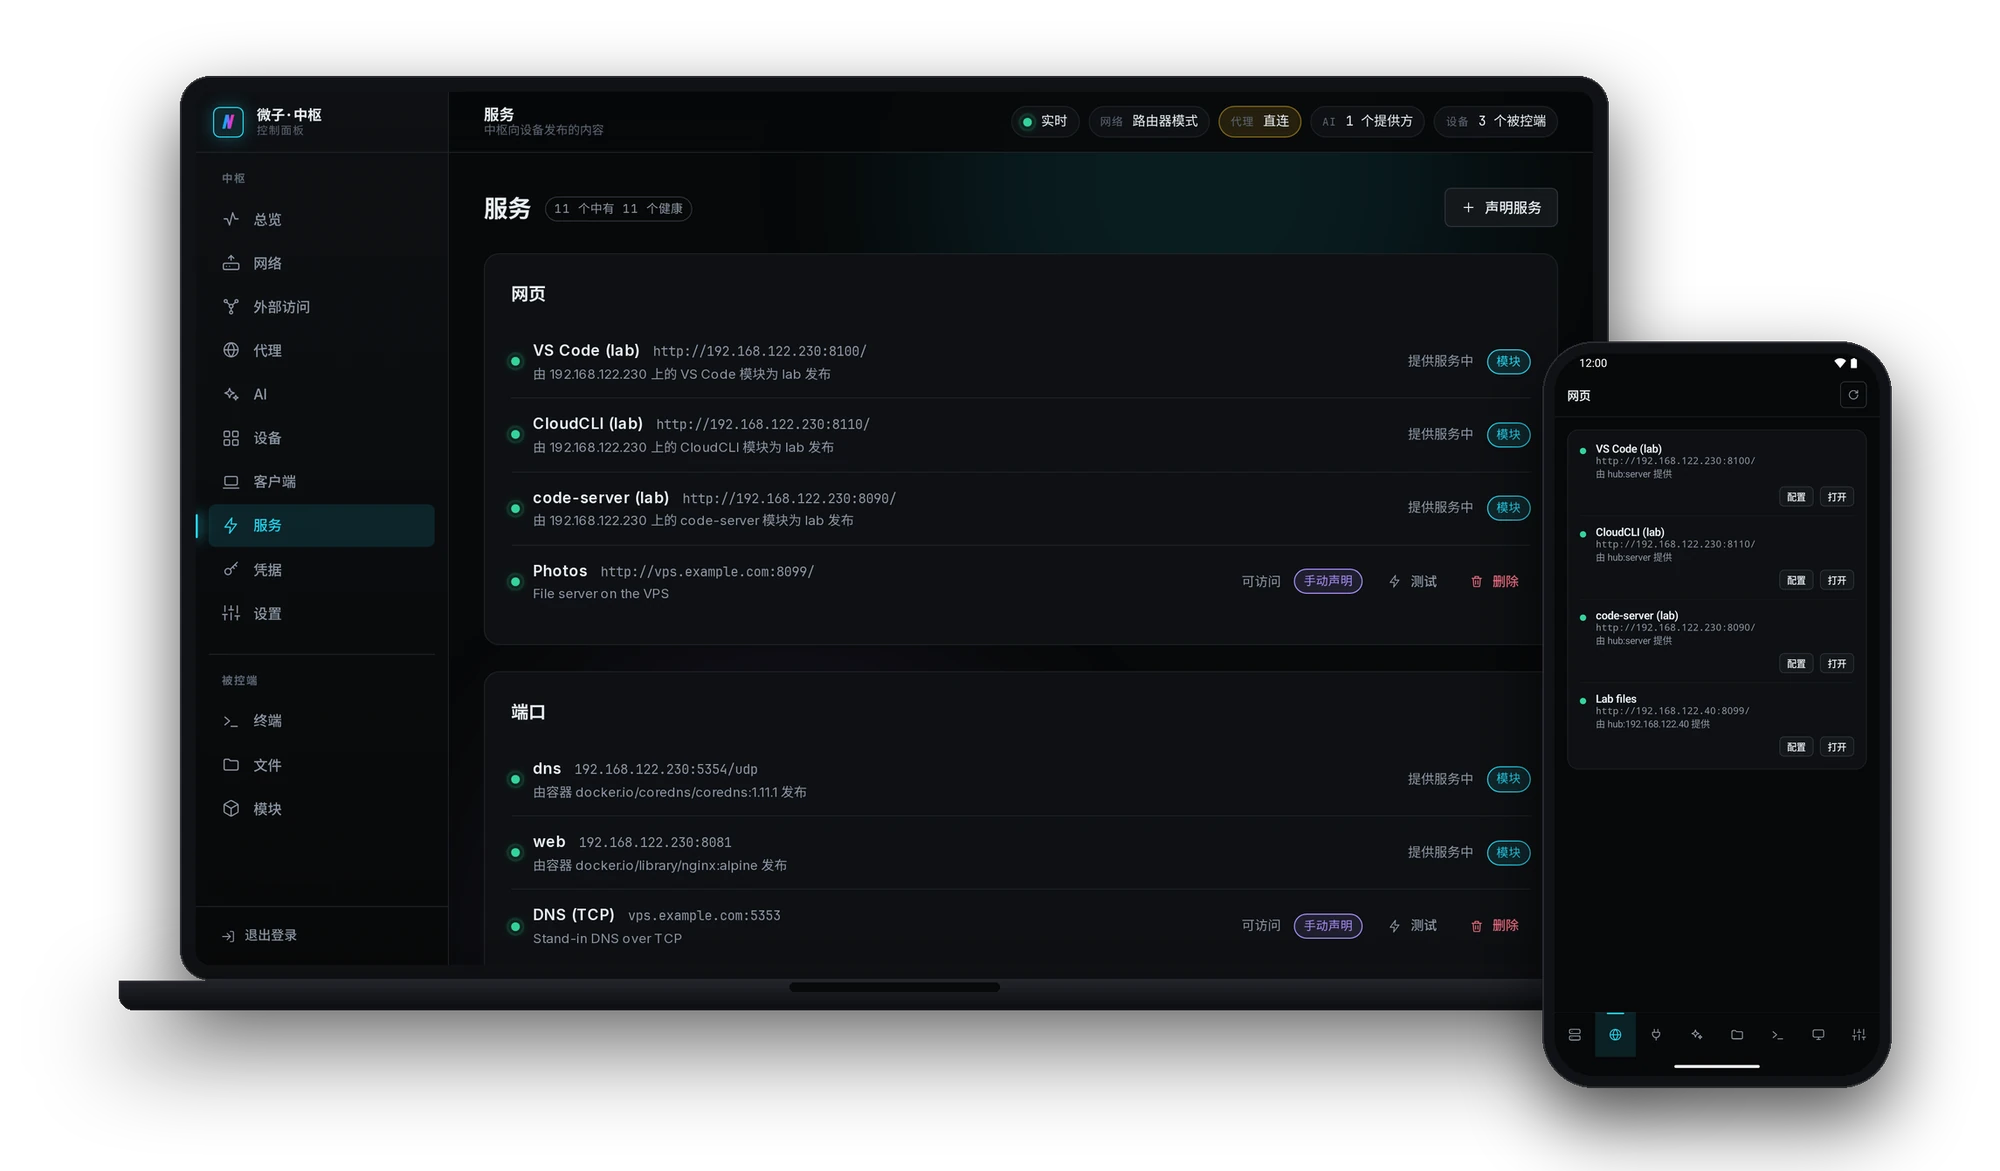
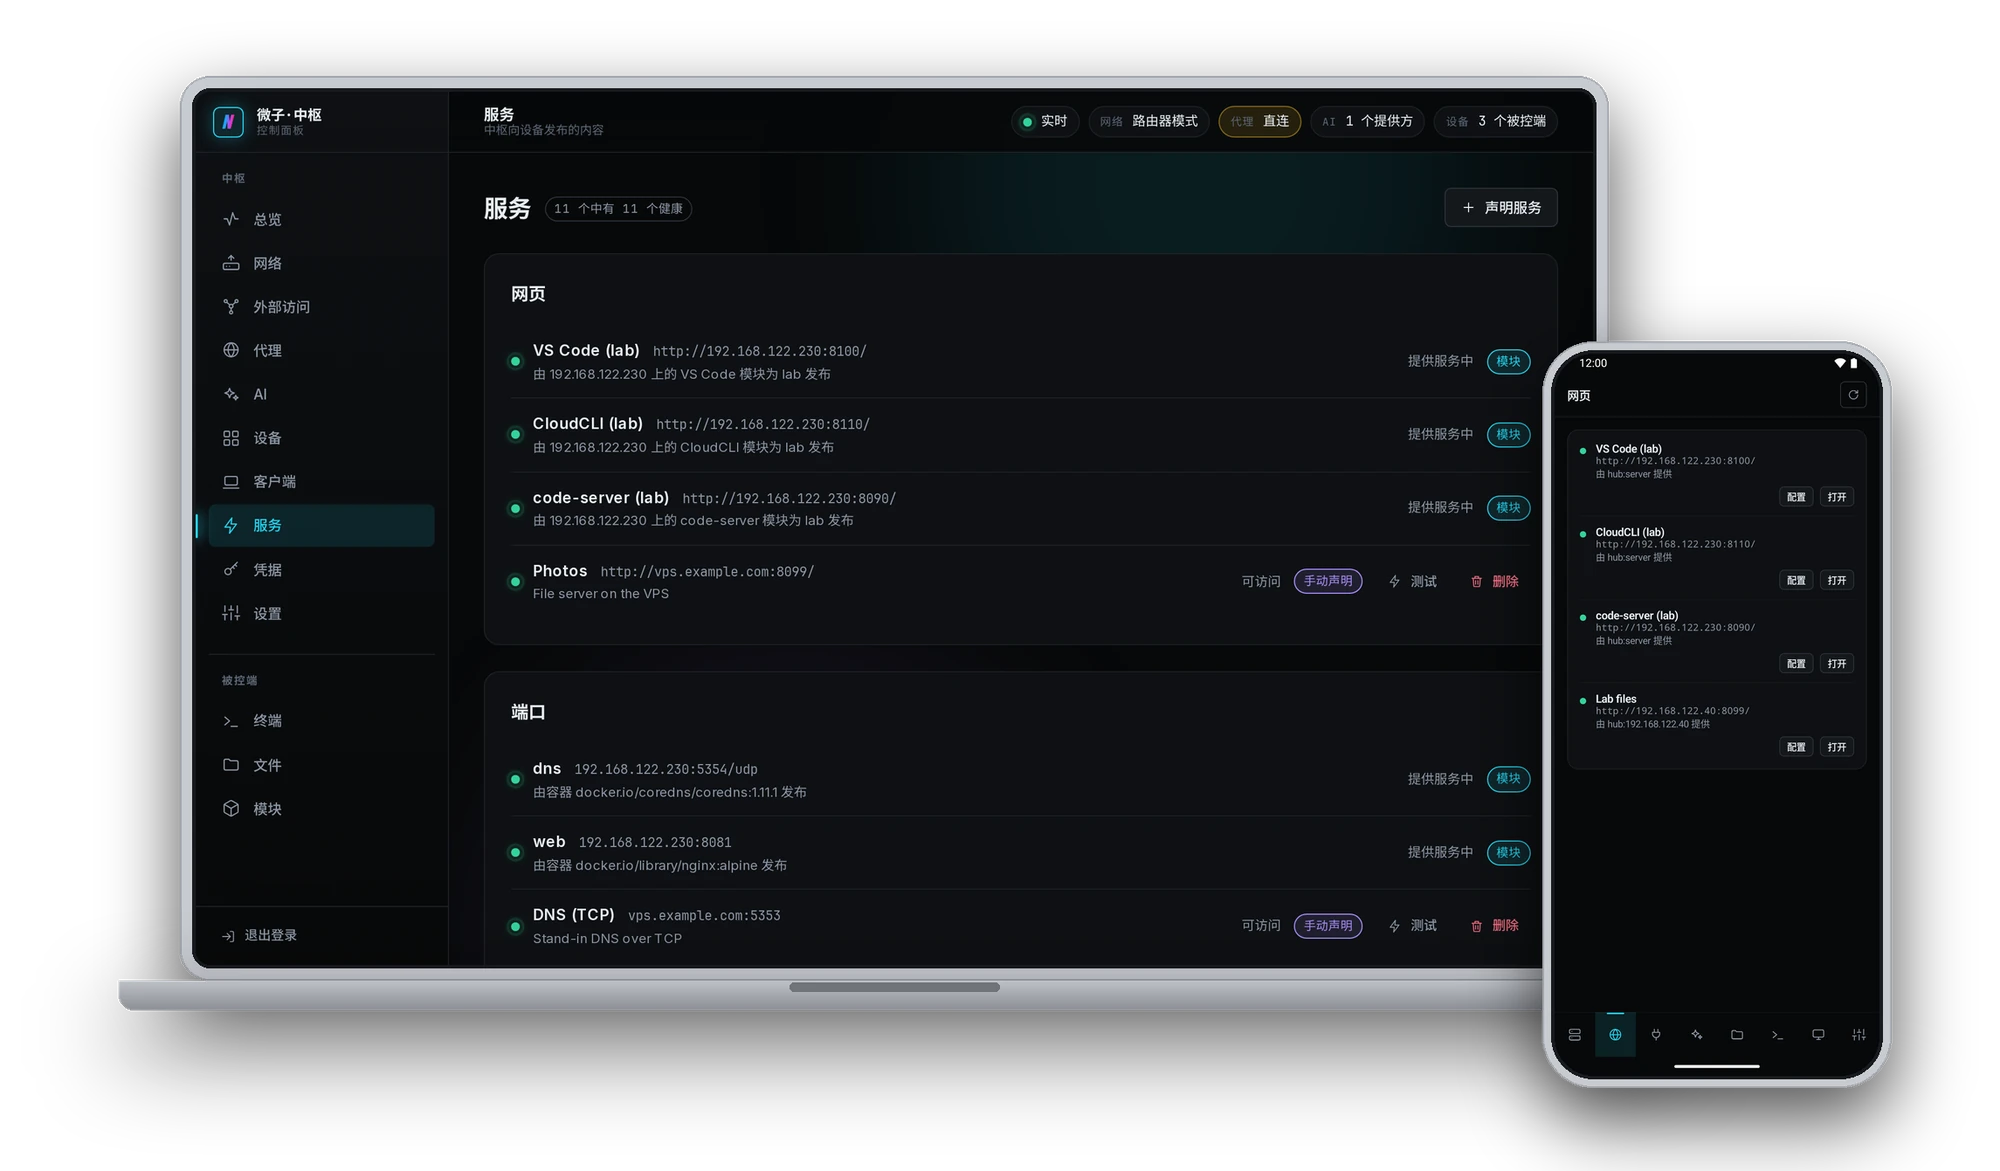
README: the install section leads with one package on the computer to reach and the phone app, download buttons point at the latest release, a Gitee badge names the trimmed mainland edition, and the devices image has silver bodies.

Changed region(s): [[0.062, 0.0615, 0.93, 0.8915], [0.93, 0.3074, 0.961, 0.9223], [0.775, 0.8915, 0.93, 0.953]]

diff --git a/README.md b/README.md
@@ -10,6 +10,7 @@ A small tool I made so I could travel.
 
 [![License: MIT](https://img.shields.io/badge/license-MIT-0a0e14?labelColor=0a0e14&color=22d3ee)](LICENSE)
 [![Version](https://img.shields.io/badge/version-0.5.0-0a0e14?labelColor=0a0e14&color=22d3ee)](https://github.com/iffiX/neutrino/releases)
+[![Mainland edition](https://img.shields.io/badge/mainland%20edition-Gitee%20mirror-0a0e14?labelColor=0a0e14&color=22d3ee)](https://gitee.com/iffiX/neutrino/releases)
 [![Platforms](https://img.shields.io/badge/runs%20on-Linux%20%C2%B7%20macOS%20%C2%B7%20Windows%20%C2%B7%20Android-0a0e14?labelColor=0a0e14&color=a78bfa)](https://neutrino.beyond-infinity.top/reference/platforms.html)
 
 [![CI](https://img.shields.io/github/actions/workflow/status/iffiX/neutrino/ci.yml?branch=main&label=CI&labelColor=0a0e14)](https://github.com/iffiX/neutrino/actions/workflows/ci.yml)
@@ -38,7 +39,30 @@ Everything goes through one port on the hub, at home or away. The AI gateway tak
 
 ## Install
 
-The hub goes on one always-on machine at home. Linux and macOS:
+The computer you want to reach gets one package, the phone gets the app, one scan and you are in. Pick your system:
+
+<p align="center">
+<a href="https://github.com/iffiX/neutrino/releases/latest"><img alt="Windows" src="https://img.shields.io/badge/Windows-Download-22d3ee?style=for-the-badge&labelColor=0a0e14&color=22d3ee" /></a>
+<a href="https://github.com/iffiX/neutrino/releases/latest"><img alt="macOS" src="https://img.shields.io/badge/macOS-Download-22d3ee?style=for-the-badge&labelColor=0a0e14&color=22d3ee" /></a>
+<a href="https://github.com/iffiX/neutrino/releases/latest"><img alt="Linux" src="https://img.shields.io/badge/Linux-Download-22d3ee?style=for-the-badge&labelColor=0a0e14&color=22d3ee" /></a>
+<a href="https://github.com/iffiX/neutrino/releases/latest"><img alt="Android" src="https://img.shields.io/badge/Android-Download-22d3ee?style=for-the-badge&labelColor=0a0e14&color=22d3ee" /></a>
+</p>
+
+Once the computer has it, search for **Neutrino Hub** and open it, the same on all three systems, and follow the wizard in your browser. A few minutes, a password, and the panel is up.
+
+On a machine with no desktop, an ARM64 router box, a dev board, or a computer you reach over SSH, start the wizard in the terminal: answer it there, or open the address it prints from another computer. Linux and macOS:
+
+```bash
+sudo nhub setup
+```
+
+Windows, in an administrator PowerShell:
+
+```powershell
+nhub setup
+```
+
+If you would rather not click around, one command downloads, verifies and installs, and goes straight into the wizard. Linux and macOS:
 
 ```bash
 curl -fsSL https://github.com/iffiX/neutrino/releases/latest/download/install.sh | sh
@@ -50,13 +74,7 @@ Windows:
 irm https://github.com/iffiX/neutrino/releases/latest/download/install.ps1 | iex
 ```
 
-A machine you manage gets the agent and the computer you sit at gets the client: the same command with `agent` or `client` at the end.
-
-```bash
-curl -fsSL https://github.com/iffiX/neutrino/releases/latest/download/install.sh | sh -s -- agent
-```
-
-The mainland edition and the package files are on [Install the hub](https://neutrino.beyond-infinity.top/install/hub.html).
+The mainland edition downloads from [Gitee](https://gitee.com/iffiX/neutrino/releases) and installs the same way. More machines, or the client on another computer: see [Install](https://neutrino.beyond-infinity.top/install/hub.html) in the docs.
 
 ## Join with one scan
 

diff --git a/README.zh-CN.md b/README.zh-CN.md
@@ -10,6 +10,7 @@
 
 [![License: MIT](https://img.shields.io/badge/license-MIT-0a0e14?labelColor=0a0e14&color=22d3ee)](LICENSE)
 [![Version](https://img.shields.io/badge/version-0.5.0-0a0e14?labelColor=0a0e14&color=22d3ee)](https://github.com/iffiX/neutrino/releases)
+[![国内精简版](https://img.shields.io/badge/%E5%9B%BD%E5%86%85%E7%B2%BE%E7%AE%80%E7%89%88-Gitee%20%E9%95%9C%E5%83%8F-0a0e14?labelColor=0a0e14&color=22d3ee)](https://gitee.com/iffiX/neutrino/releases)
 [![Platforms](https://img.shields.io/badge/runs%20on-Linux%20%C2%B7%20macOS%20%C2%B7%20Windows%20%C2%B7%20Android-0a0e14?labelColor=0a0e14&color=a78bfa)](https://neutrino.beyond-infinity.top/zh-CN/reference/platforms.html)
 
 [![CI](https://img.shields.io/github/actions/workflow/status/iffiX/neutrino/ci.yml?branch=main&label=CI&labelColor=0a0e14)](https://github.com/iffiX/neutrino/actions/workflows/ci.yml)
@@ -38,7 +39,30 @@
 
 ## 安装
 
-中枢装在家里一台常开的机器上。Linux 和 macOS：
+在你要远程访问的那台电脑上装一个包，手机装一个应用，扫一次码就能用。点你的系统下载：
+
+<p align="center">
+<a href="https://github.com/iffiX/neutrino/releases/latest"><img alt="Windows" src="https://img.shields.io/badge/Windows-%E4%B8%8B%E8%BD%BD-22d3ee?style=for-the-badge&labelColor=0a0e14&color=22d3ee" /></a>
+<a href="https://github.com/iffiX/neutrino/releases/latest"><img alt="macOS" src="https://img.shields.io/badge/macOS-%E4%B8%8B%E8%BD%BD-22d3ee?style=for-the-badge&labelColor=0a0e14&color=22d3ee" /></a>
+<a href="https://github.com/iffiX/neutrino/releases/latest"><img alt="Linux" src="https://img.shields.io/badge/Linux-%E4%B8%8B%E8%BD%BD-22d3ee?style=for-the-badge&labelColor=0a0e14&color=22d3ee" /></a>
+<a href="https://github.com/iffiX/neutrino/releases/latest"><img alt="Android" src="https://img.shields.io/badge/Android-%E4%B8%8B%E8%BD%BD-22d3ee?style=for-the-badge&labelColor=0a0e14&color=22d3ee" /></a>
+</p>
+
+电脑上装完，在系统里搜 **Neutrino Hub** 点开，三个系统都一样，浏览器里跟着向导走。几分钟，设好密码，面板就开了。
+
+没有桌面的机器，比如 ARM64 的软路由、开发板，或者 SSH 进去的电脑，在终端里启动向导，在终端里答，或者用别的电脑打开它打印的网址。Linux 和 macOS：
+
+```bash
+sudo nhub setup
+```
+
+Windows，在管理员 PowerShell 里：
+
+```powershell
+nhub setup
+```
+
+嫌点来点去麻烦的，一条命令下载、校验、安装，装完直接进向导。Linux 和 macOS：
 
 ```bash
 curl -fsSL https://github.com/iffiX/neutrino/releases/latest/download/install.sh | sh
@@ -50,13 +74,7 @@ Windows：
 irm https://github.com/iffiX/neutrino/releases/latest/download/install.ps1 | iex
 ```
 
-要管的机器装被控端，你坐在前面的电脑装客户端，还是这条命令，末尾加 `agent` 或 `client`：
-
-```bash
-curl -fsSL https://github.com/iffiX/neutrino/releases/latest/download/install.sh | sh -s -- agent
-```
-
-国内版和用包文件安装，见[安装中枢](https://neutrino.beyond-infinity.top/zh-CN/install/hub.html)。
+国内精简版从 [Gitee](https://gitee.com/iffiX/neutrino/releases) 下载，装法一样。再管几台机器，或者给另一台电脑装客户端，见文档的[安装](https://neutrino.beyond-infinity.top/zh-CN/install/hub.html)。
 
 ## 扫码加入
 
